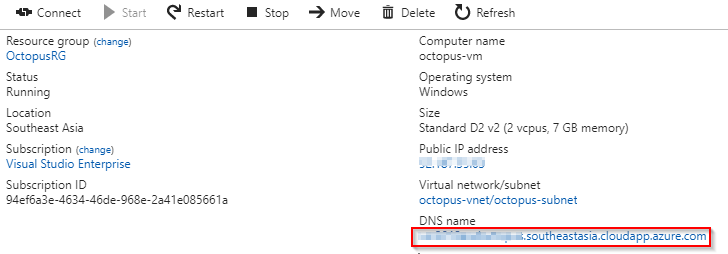
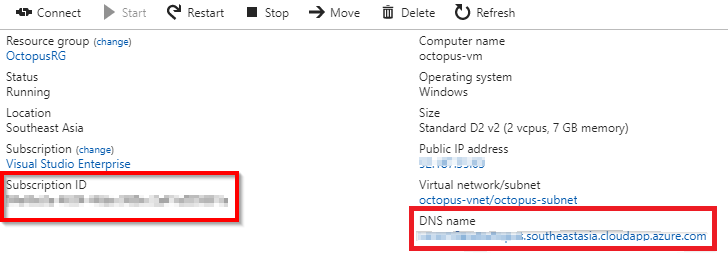
Updated content

Changed region(s): [[0.0, 0.6614, 0.3324, 0.9094], [0.544, 0.7992, 0.9973, 0.9921]]

diff --git a/octopus/readme.md b/octopus/readme.md
@@ -29,7 +29,7 @@ This lab shows how you can integrate VSTS and Octopus to deploy PHP application 
 
     <img src="images/Resources.png">
 
-4. Click on the **octopus-vm** and note down the **DNS name**. We will need this to access Octopus server.
+4. Click on the **octopus-vm** and note down the **Subscription ID** and **DNS name**. We will need this in later exercises.
 
 
    <img src="images/A3.png">
@@ -162,7 +162,7 @@ In this exercise, we will create a project to deploy the package to **Azure App 
 
    <img src="images/Azure.png">
 
-## Exercise 2: Link VSTS and Octopus Deploy Server
+## Exercise 3: Link VSTS and Octopus Deploy Server
 
 In this exercise we will create an **API** key in Octopus. This key is required to link VSTS with Octopus.
 
@@ -193,7 +193,7 @@ In this exercise we will create an **API** key in Octopus. This key is required 
 
    <img src="images/EndpointSuccess.png">
 
-## Exercise 3: Triggering CI-CD
+## Exercise 4: Triggering CI-CD
 
 In this exercise, we will package PHP application and push the package to Octopus Server.
 
